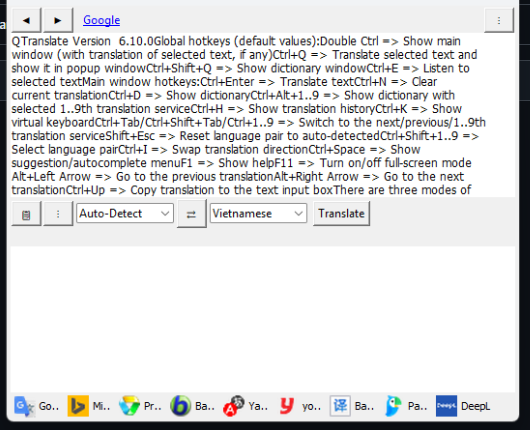
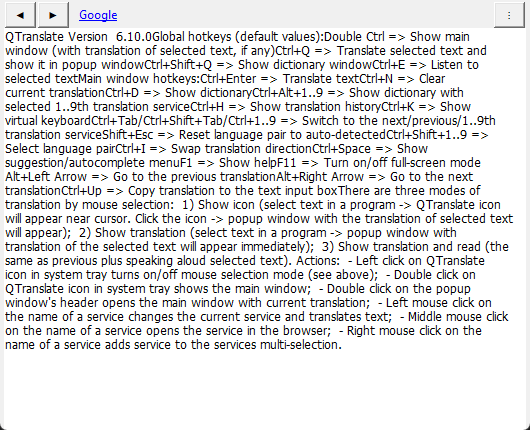
Feature: General.MidSplitterPos drag-sash between source/result panes
- added a draggable sash widget between srcfrm and the toolbar; dragging
  resizes the source pane and persists the delta to MidSplitterPos
  (previously unconsumed setting, no sash existed at all)
- fix capture_app.py flakiness: -topmost + 1s settle before ImageGrab
  (previous capture could grab an overlapping window)

diff --git a/qtranslate/app.py b/qtranslate/app.py
@@ -681,6 +681,20 @@ class App:
             _es = ""
         self.src.insert("1.0", _es if _es else self.default_source_text())
         self.src.bind("<KeyRelease>", lambda e: self.on_type())
+        # General.MidSplitterPos: native drag-sash between the source and
+        # result panes, persisted as a pixel/line offset (was previously
+        # unconsumed -- no sash existed at all).
+        try:
+            from qtranslate import config as _CMS
+            _mid_pos = int(_CMS.load().get("General", {}).get(
+                "MidSplitterPos", 0) or 0)
+        except Exception:
+            _mid_pos = 0
+        if _mid_pos:
+            try:
+                self.src.config(height=max(3, min(30, 12 + _mid_pos)))
+            except Exception:
+                pass
         srcside = tk.Frame(srcfrm, bg="white")
         srcside.pack(side="right", fill="y", padx=2)
         # Tahoma glyphs (emoji mic/headphone render blank on win32 Tk)
@@ -692,6 +706,43 @@ class App:
                   command=self.on_listen).pack(pady=1)
         # keep the side column narrow so the text pane keeps its width
         srcside.config(width=34)
+        # Drag sash: resize the source pane, persisting the delta to
+        # General.MidSplitterPos (native mid-pane splitter).
+        sash = tk.Frame(self.root, bg="#c1c1c2", height=3,
+                        cursor="sb_v_double_arrow")
+        sash.pack(fill="x")
+        self._mid_splitter_base = [_mid_pos]
+
+        def _sash_drag(e):
+            try:
+                delta_lines = int(e.y_root
+                                  - sash.winfo_rooty()) // 14
+            except Exception:
+                return
+            try:
+                cur = self.src.cget("height")
+                new_h = max(3, min(30, cur + delta_lines))
+                if new_h != cur:
+                    self.src.config(height=new_h)
+                    self._mid_splitter_base[0] = new_h - 12
+            except Exception:
+                pass
+
+        def _sash_release(_e=None):
+            try:
+                from qtranslate import config as _CMS2
+                import json as _jms
+                full = _CMS2.load()
+                full.setdefault("General", {})["MidSplitterPos"] = \
+                    self._mid_splitter_base[0]
+                with open(_CMS2.DEFAULT_PATH, "w",
+                          encoding="utf-8") as fh:
+                    _jms.dump(full, fh, ensure_ascii=False, indent=1)
+            except Exception:
+                pass
+
+        sash.bind("<B1-Motion>", _sash_drag)
+        sash.bind("<ButtonRelease-1>", _sash_release)
         # toolbar row: [paste] [kebab] [Auto-Detect] [swap] [target]
         # [Translate] — no mic/headphone here (they live on the panes)
         bar = tk.Frame(self.root, bg=bg)

diff --git a/tools/capture_app.py b/tools/capture_app.py
@@ -21,10 +21,14 @@ def main():
     A._MAIN_APP = None
     inst = A.App(root)
     A._MAIN_APP = inst
+    root.lift()
+    root.attributes("-topmost", True)
     root.update_idletasks()
     root.update()
-    # give Tk a moment to paint
-    root.after(300, lambda: None)
+    # give Tk + the window manager time to paint and raise the window,
+    # or ImageGrab can capture whatever was on top at call time.
+    import time
+    time.sleep(1)
     root.update()
 
     x, y = root.winfo_rootx(), root.winfo_rooty()
